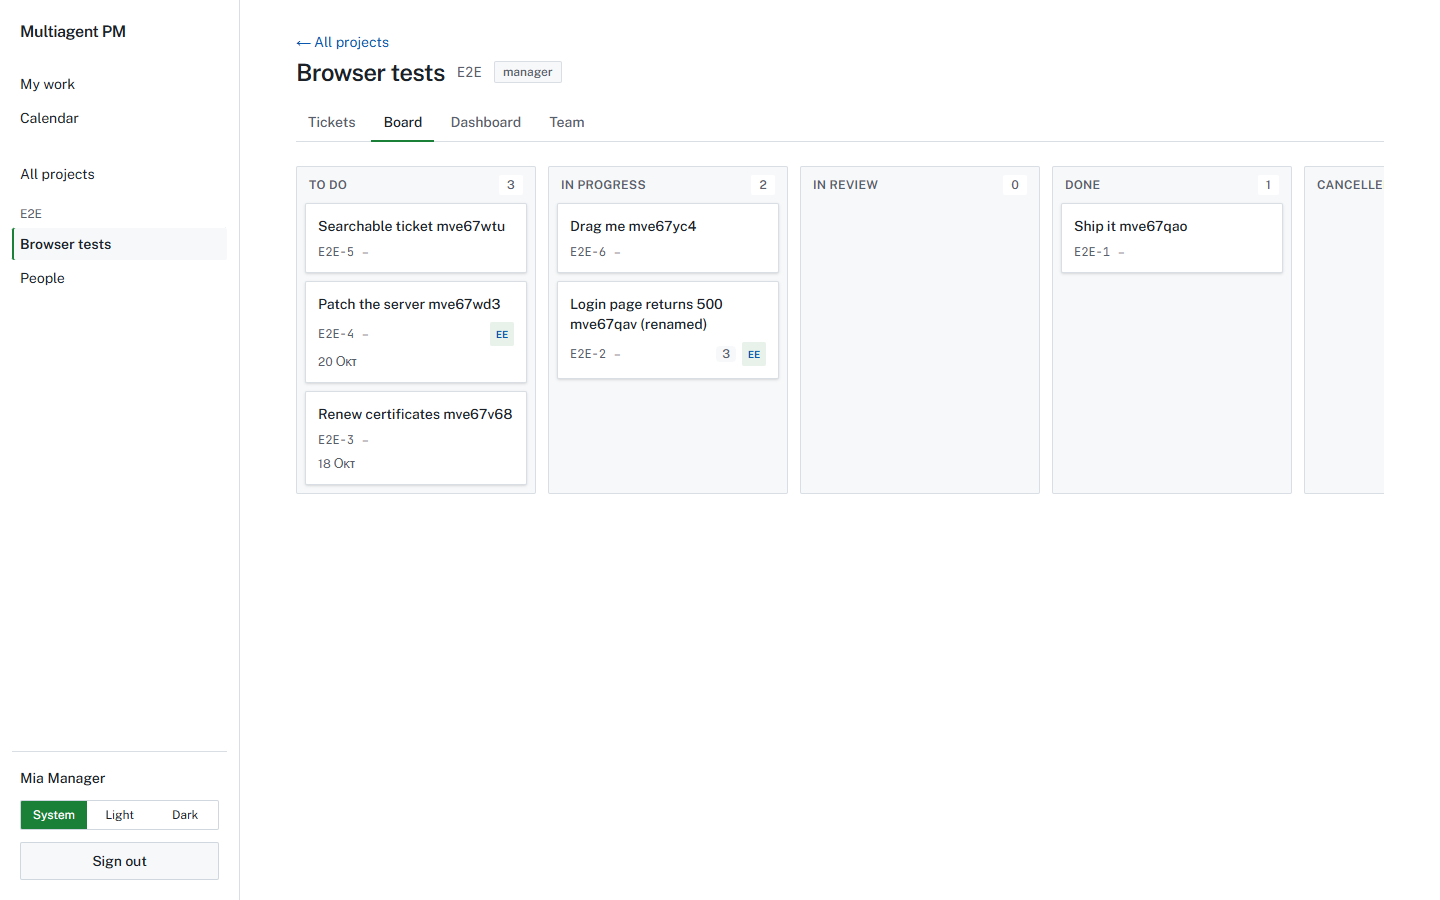
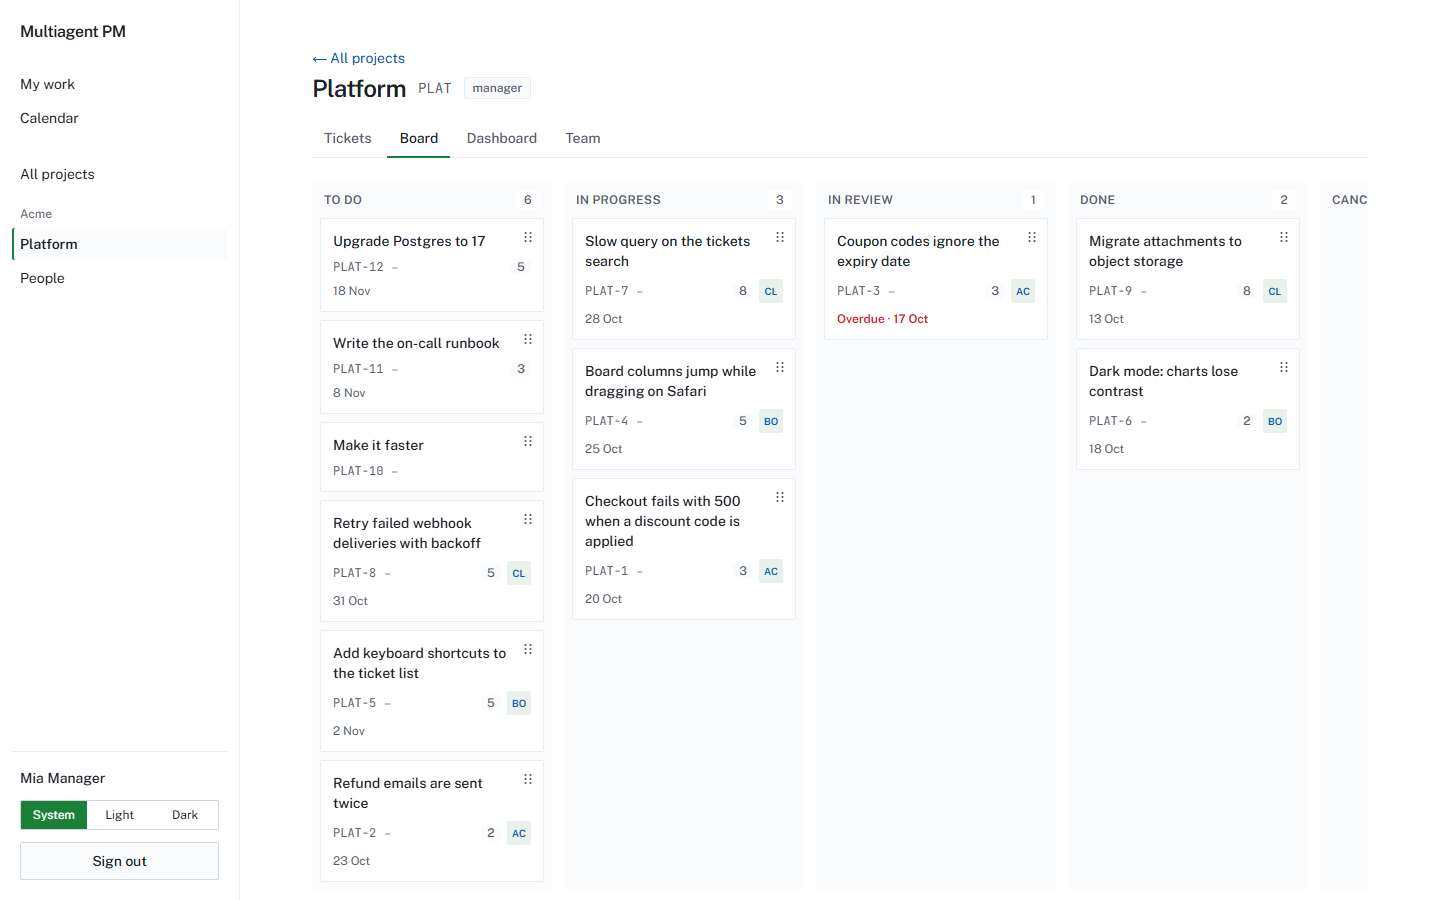
Lighter, cleaner look and a demo seed (UI redesign, step g)
- Softer hairlines (light and dark), plain cards with no header rule, more
  page padding, no shadows; board columns are a quiet tint instead of an
  outlined box; stat tiles are numbers with a thin rule, not boxes.
- scripts/seed_demo.py: one command (idempotent) creates a manager, three
  teammates with profiles, a project and twelve tickets with history. The
  real triage agent runs on them (about $0.0001 each). Sign in as
  demo-manager@example.com / correct horse battery.
- .gitignore: the Playwright MCP's scratch folder.

diff --git a/frontend/src/app/(app)/projects/[projectId]/board/board.tsx b/frontend/src/app/(app)/projects/[projectId]/board/board.tsx
@@ -137,8 +137,8 @@ function Column({ status, count, children }: { status: Status; count: number; ch
     <section
       ref={setNodeRef}
       aria-label={STATUS_LABEL[status]}
-      className={`flex min-h-64 flex-col gap-2 rounded-sm border p-2 transition-colors ${
-        isOver ? "border-accent bg-accent/5" : "border-border bg-subtle"
+      className={`flex min-h-64 flex-col gap-2 rounded-sm p-2 transition-colors ${
+        isOver ? "bg-accent/10 outline outline-1 outline-accent" : "bg-subtle"
       }`}
     >
       <h2 className="flex items-center justify-between px-1 text-xs font-semibold uppercase tracking-wide text-muted">
@@ -173,7 +173,7 @@ function Card({
     <article
       ref={setNodeRef}
       style={{ transform: CSS.Translate.toString(transform) }}
-      className={`relative flex flex-col gap-2 rounded-sm border border-border bg-surface p-3 shadow-sm ${
+      className={`relative flex flex-col gap-2 rounded-sm border border-border bg-surface p-3 ${
         isDragging ? "z-10 opacity-80 shadow-lg" : ""
       }`}
     >

diff --git a/frontend/src/components/ui.tsx b/frontend/src/components/ui.tsx
@@ -99,19 +99,20 @@ export function Card({
   children: ReactNode;
 }) {
   const bot = tone === "bot";
+  // Plain cards are just a hairline and white space; only agent entries get a tinted header.
   return (
     <section className={`rounded-lg border ${bot ? "border-bot-border" : "border-border"} bg-surface`}>
       {title ? (
         <header
-          className={`flex items-center justify-between gap-3 border-b px-4 py-3 ${
-            bot ? "border-bot-border bg-bot" : "border-border"
+          className={`flex items-center justify-between gap-3 px-5 py-3.5 ${
+            bot ? "border-b border-bot-border bg-bot" : "pb-0"
           }`}
         >
           <h2 className="text-sm font-semibold">{title}</h2>
           {actions}
         </header>
       ) : null}
-      <div className="p-4">{children}</div>
+      <div className="p-5">{children}</div>
     </section>
   );
 }

diff --git a/frontend/src/app/globals.css b/frontend/src/app/globals.css
@@ -7,11 +7,11 @@
 :root {
   --background: #ffffff;
   --surface: #ffffff;
-  --subtle: #f6f8fa; /* table heads, hovers, panel headers */
+  --subtle: #fafbfc; /* hovers, table heads, selected rows */
   --foreground: #1c2128;
   --muted: #57606a;
-  --border: #d8dee4;
-  --control: #d0d7de; /* borders of inputs and secondary buttons */
+  --border: #e8ebef; /* hairlines between sections: kept very light */
+  --control: #cfd6dd; /* borders of inputs and secondary buttons: still clearly visible */
   --accent: #1a7f37; /* primary actions */
   --accent-strong: #166b2e;
   --on-accent: #ffffff;
@@ -27,10 +27,10 @@
 .dark {
   --background: #0d1117;
   --surface: #0d1117;
-  --subtle: #151b23;
+  --subtle: #11161d;
   --foreground: #e6edf3;
   --muted: #9198a1;
-  --border: #30363d;
+  --border: #232a33;
   --control: #3d444d;
   --accent: #238636;
   --accent-strong: #2ea043;

diff --git a/frontend/src/app/(app)/projects/projects-view.tsx b/frontend/src/app/(app)/projects/projects-view.tsx
@@ -72,7 +72,7 @@ function WorkspaceSection({ workspace }: { workspace: Workspace }) {
           <li key={project.id}>
             <Link
               href={`/projects/${project.id}`}
-              className="flex h-full flex-col gap-2 rounded-sm border border-border bg-surface p-4 hover:border-accent"
+              className="flex h-full flex-col gap-2 rounded-sm border border-border bg-surface p-4 hover:border-control"
             >
               <span className="font-mono text-xs text-muted">{project.key}</span>
               <span className="font-medium">{project.name}</span>

diff --git a/frontend/src/components/app-shell.tsx b/frontend/src/components/app-shell.tsx
@@ -55,7 +55,7 @@ export function AppShell({ children }: { children: ReactNode }) {
         {me.data ? <Account name={me.data.display_name} /> : null}
       </aside>
 
-      <main className="mx-auto w-full min-w-0 max-w-6xl flex-1 px-4 py-8 md:px-8">
+      <main className="mx-auto w-full min-w-0 max-w-6xl flex-1 px-5 py-8 md:px-12 md:py-12">
         {me.isPending ? <Loading /> : null}
         {me.isError ? <Alert tone="error">{errorText(me.error)}</Alert> : null}
         {me.data ? children : null}

diff --git a/frontend/src/app/(app)/projects/[projectId]/dashboard/dashboard-view.tsx b/frontend/src/app/(app)/projects/[projectId]/dashboard/dashboard-view.tsx
@@ -113,7 +113,7 @@ function TeamKpis({ data, isManager }: { data: Dashboard; isManager: boolean }) 
 
 function Stat({ label, hint, children }: { label: string; hint?: string; children: ReactNode }) {
   return (
-    <div className="rounded-sm border border-border bg-surface p-4" title={hint}>
+    <div className="border-l-2 border-border pl-4" title={hint}>
       <div className="text-xs text-muted">{label}</div>
       <div className="mt-1 text-xl font-semibold">{children}</div>
     </div>

diff --git a/frontend/src/app/(auth)/layout.tsx b/frontend/src/app/(auth)/layout.tsx
@@ -7,7 +7,7 @@ export default function AuthLayout({ children }: LayoutProps<"/">) {
         <Link href="/" className="text-center text-lg font-semibold tracking-tight">
           Multiagent PM
         </Link>
-        <div className="rounded-sm border border-border bg-surface p-6 shadow-sm">{children}</div>
+        <div className="rounded-sm border border-border bg-surface p-8">{children}</div>
       </div>
     </main>
   );

diff --git a/frontend/src/app/(app)/me/my-work-view.tsx b/frontend/src/app/(app)/me/my-work-view.tsx
@@ -56,7 +56,7 @@ export function MyWorkView() {
 
 function Stat({ label, value }: { label: string; value: number }) {
   return (
-    <div className="rounded-sm border border-border bg-surface p-4">
+    <div className="border-l-2 border-border pl-4">
       <div className="text-xs text-muted">{label}</div>
       <div className="mt-1 text-xl font-semibold">{value}</div>
     </div>

diff --git a/backend/scripts/seed_demo.py b/backend/scripts/seed_demo.py
@@ -1,0 +1,204 @@
+"""Demo data for the local stack, so every screen has something to show.
+
+    docker compose up -d --wait
+    cd backend && uv run python -m scripts.seed_demo
+
+Creates (or reuses) a manager, three teammates with profiles, a project and a dozen tickets
+with some history. Sign in at http://localhost:3000 as demo-manager@example.com with the
+password printed at the end. Development stack only. New tickets are triaged by the real agent
+(about $0.0001 each).
+"""
+
+import re
+import time
+from datetime import date, timedelta
+
+import httpx
+
+from scripts.smoke.common import (
+    API,
+    HEADERS,
+    PASSWORD,
+    Json,
+    account,
+    latest_token,
+    reset_signup_limits,
+)
+
+MANAGER = ("demo-manager@example.com", "Mia Manager")
+TEAM = [
+    (
+        "demo-ana@example.com",
+        "Ana Costa",
+        "Payments engineer",
+        "Checkout, refunds and coupons; owns the payment service.",
+        {"payments": 5, "Python": 4},
+    ),
+    (
+        "demo-ben@example.com",
+        "Ben Okafor",
+        "Frontend developer",
+        "React and TypeScript interfaces, accessibility, design systems.",
+        {"React": 5, "TypeScript": 4},
+    ),
+    (
+        "demo-cara@example.com",
+        "Cara Lindqvist",
+        "Backend developer",
+        "APIs, databases and background jobs.",
+        {"Python": 5, "PostgreSQL": 4, "payments": 3},
+    ),
+]
+# title, description, labels, points, due in days, assignee index (None = nobody), final status
+type Row = tuple[str, str, list[str], int | None, int | None, int | None, str]
+TICKETS: list[Row] = [
+    (
+        "Checkout fails with 500 when a discount code is applied",
+        "Customers can't pay since the deploy.",
+        ["payments"],
+        3,
+        1,
+        0,
+        "in_progress",
+    ),
+    (
+        "Refund emails are sent twice",
+        "Support reports duplicate refund confirmations.",
+        ["payments", "email"],
+        2,
+        4,
+        0,
+        "todo",
+    ),
+    ("Coupon codes ignore the expiry date", "", ["payments"], 3, -2, 0, "in_review"),
+    (
+        "Board columns jump while dragging on Safari",
+        "Reproduced on iOS 18.",
+        ["frontend"],
+        5,
+        6,
+        1,
+        "in_progress",
+    ),
+    (
+        "Add keyboard shortcuts to the ticket list",
+        "J/K to move, Enter to open.",
+        ["frontend", "a11y"],
+        5,
+        14,
+        1,
+        "todo",
+    ),
+    ("Dark mode: charts lose contrast", "", ["frontend"], 2, -1, 1, "done"),
+    (
+        "Slow query on the tickets search",
+        "p95 is 900 ms with 50k tickets.",
+        ["database", "performance"],
+        8,
+        9,
+        2,
+        "in_progress",
+    ),
+    ("Retry failed webhook deliveries with backoff", "", ["backend"], 5, 12, 2, "todo"),
+    (
+        "Migrate attachments to object storage",
+        "Done for new files, old ones remain.",
+        ["backend", "storage"],
+        8,
+        -6,
+        2,
+        "done",
+    ),
+    ("Make it faster", "", [], None, None, None, "todo"),
+    (
+        "Write the on-call runbook",
+        "How to read the logs and roll back.",
+        ["docs"],
+        3,
+        20,
+        None,
+        "todo",
+    ),
+    ("Upgrade Postgres to 17", "", ["database"], 5, 30, None, "todo"),
+]
+
+
+def sign_in_or_up(email: str, name: str) -> httpx.Client:
+    client = httpx.Client(base_url=API, headers=HEADERS, timeout=60)
+    signed_in = client.post("/auth/sign-in", json={"email": email, "password": PASSWORD})
+    if signed_in.status_code != 200:
+        return account(email, name)
+    match = re.search(r"pm_session=([^;]+)", signed_in.headers["set-cookie"])
+    assert match is not None
+    client.headers["cookie"] = f"pm_session={match.group(1)}"
+    return client
+
+
+def main() -> None:
+    reset_signup_limits()
+    mgr = sign_in_or_up(*MANAGER)
+    workspaces: list[Json] = mgr.get("/workspaces").json()
+    if not any(w["name"] == "Acme" for w in workspaces):
+        workspace: Json = mgr.post("/workspaces", json={"name": "Acme"}).json()
+    else:
+        workspace = next(w for w in workspaces if w["name"] == "Acme")
+    projects: list[Json] = mgr.get(f"/workspaces/{workspace['id']}/projects").json()
+    if projects:
+        print("Demo project already exists: nothing more to create.")
+        return print_login()
+    project: Json = mgr.post(
+        f"/workspaces/{workspace['id']}/projects", json={"key": "PLAT", "name": "Platform"}
+    ).json()
+    pid = project["id"]
+
+    ids: list[str] = []
+    for email, name, headline, about, skills in TEAM:
+        mgr.post(
+            f"/projects/{pid}/invitations", json={"email": email, "role": "employee"}
+        ).raise_for_status()
+        token = latest_token(email, "invited you")
+        person = sign_in_or_up(email, name)
+        person.post("/invitations/accept", json={"token": token}).raise_for_status()
+        user_id = person.get("/auth/me").json()["id"]
+        ids.append(user_id)
+        mgr.put(
+            f"/workspaces/{workspace['id']}/people/{user_id}/profile",
+            json={
+                "headline": headline,
+                "summary": about,
+                "skills": [{"name": k, "level": v} for k, v in skills.items()],
+            },
+        ).raise_for_status()
+
+    today = date.today()
+    for title, description, labels, points, due, who, status in TICKETS:
+        body: Json = {"title": title, "description": description, "labels": labels}
+        if points:
+            body["story_points"] = points
+        if due is not None:
+            body["due_date"] = (today + timedelta(days=due)).isoformat()
+        if who is not None:
+            body["assignee_id"] = ids[who]
+        created = mgr.post(f"/projects/{pid}/tickets", json=body)
+        created.raise_for_status()
+        if status != "todo":
+            for step in {
+                "in_review": ["in_progress", "in_review"],
+                "done": ["in_progress", "done"],
+            }.get(status, [status]):
+                mgr.patch(
+                    f"/tickets/{created.json()['id']}", json={"status": step}
+                ).raise_for_status()
+        time.sleep(0.3)  # triage jobs are picked up in order; don't flood the worker
+    print_login()
+
+
+def print_login() -> None:
+    print("\nDemo ready: http://localhost:3000")
+    print(f"  manager:  {MANAGER[0]}   password: {PASSWORD}")
+    print(f"  employee: {TEAM[0][0]}   password: {PASSWORD}")
+    print("Triage runs in the background: give it ~30 s, then open a ticket.")
+
+
+if __name__ == "__main__":
+    main()

diff --git a/CLAUDE.md b/CLAUDE.md
@@ -48,6 +48,7 @@ Backend commands run from `backend/`. If `uv` isn't on PATH, use `python -m uv`.
 - Tests use a throwaway `pm_test` database built from the migrations; each test is rolled back
 - Check (run before saying done): `uv run ruff check --fix . && uv run ruff format . && uv run pyright && uv run pytest`
 - Smoke the running stack (from `backend/`, after `docker compose up -d --build --wait`): `uv run python -m scripts.smoke` (or the `/smoke` skill). Real Haiku calls, about $0.003
+- Demo data (from `backend/`, stack running): `uv run python -m scripts.seed_demo`. Sign in as `demo-manager@example.com`, password `correct horse battery`. Safe to re-run
 - Pre-commit hooks, once per clone: `uv tool install pre-commit==4.6.2` then `pre-commit install`
 - Run the images CI published: `TAG=sha-<commit> docker compose -f docker-compose.yml -f compose.release.yml up -d --wait`
 - CI: `.github/workflows/` (ci, images, codeql, e2e). Watch a run: `gh run watch`. Actions are pinned by SHA, at least 2 weeks old
